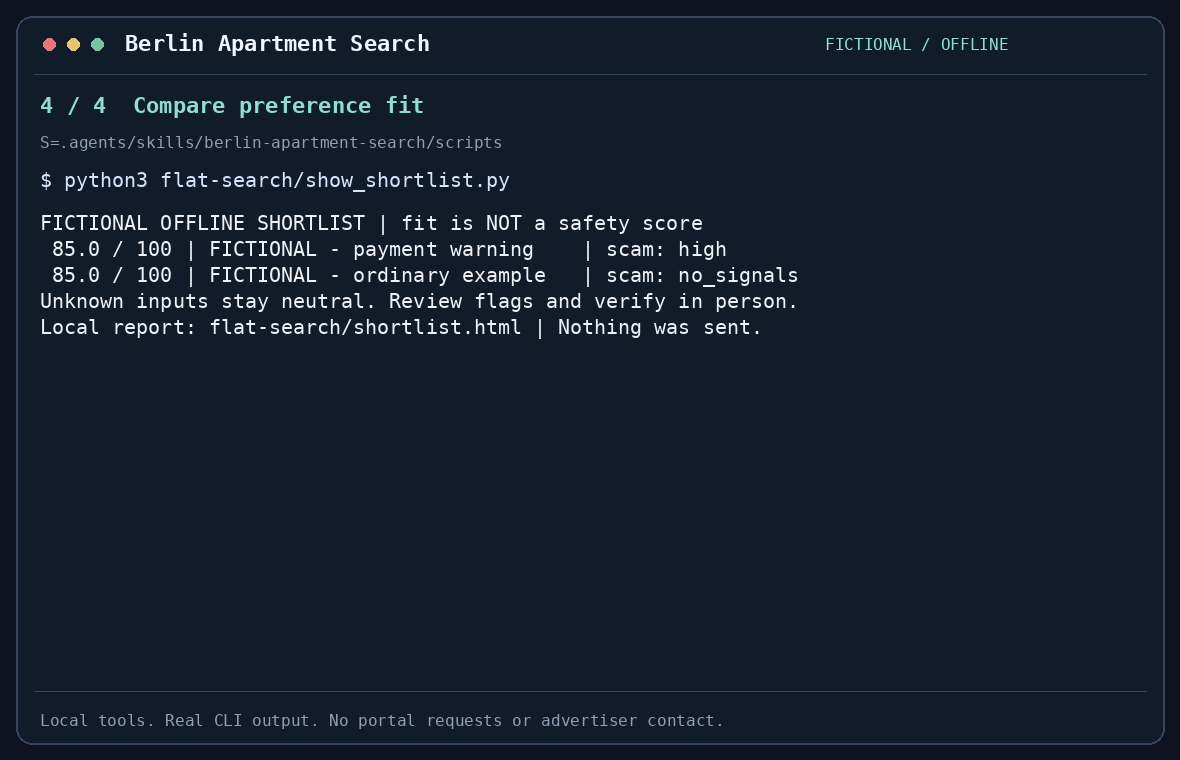
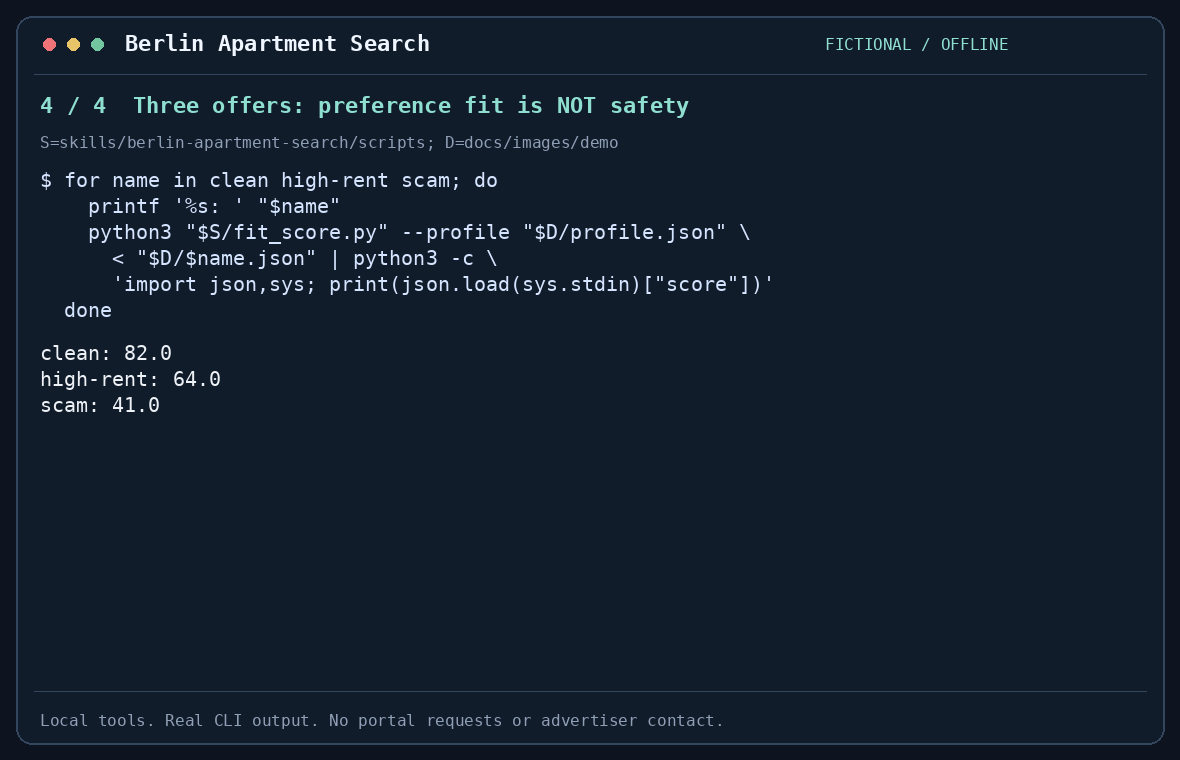
Use reproducible skill commands and distinct fictional fits in demo

Changed region(s): [[0.0305, 0.1816, 0.6712, 0.5447], [0.0915, 0.1211, 0.5797, 0.1513]]

diff --git a/docs/images/README.md b/docs/images/README.md
@@ -1,30 +1,56 @@
 # Launch demo assets
 
 `demo.gif` is a 22-second terminal-style animation generated with Python/Pillow
-from captured command output, not a recording of an AI conversation. It uses
-fictional offline data only. `hero.png` is the final shortlist frame.
-Pillow is only an asset-generation tool, not a dependency of the skill.
+from actual skill-command output, not a recording of an AI conversation.
+`hero.png` is the final fit-score frame. Pillow is only an asset-generation
+tool, not a dependency of the skill.
 
-The commands ran against a copy installed by `npx skills add` from a local
-checkout into a clean temporary workspace. Offline Python processes had socket
-connections disabled. No real listing, personal profile or live search result
-appears in either asset.
+All three listings and the profile are fictional. The inputs live in [demo/](demo/).
+Commands ran from a repository checkout with Python socket connections disabled.
+No real listing, personal profile or live search result appears in either asset.
+
+## Replay the commands
+
+From the repository root, using Python 3.9+ and a POSIX shell:
+
+```bash
+S=skills/berlin-apartment-search/scripts
+D=docs/images/demo
+
+# Scene 1: advance payment, posted keys, owner abroad, irreversible payment.
+python3 "$S/scam_check.py" < "$D/scam.txt"
+
+# Scene 2: expensive rent against a FICTIONAL dated comparison.
+python3 "$S/rent_check.py" < "$D/rent-high.json"
+
+# Scene 3: the ordinary example triggers none of these checks.
+python3 "$S/scam_check.py" < "$D/clean.json"
+python3 "$S/rent_check.py" < "$D/rent-clean.json"
+
+# Scene 4: three actual CLI scores; the inline stdlib formatter prints score only.
+for name in clean high-rent scam; do
+  printf '%s: ' "$name"
+  python3 "$S/fit_score.py" --profile "$D/profile.json" \
+    < "$D/$name.json" | python3 -c \
+    'import json,sys; print(json.load(sys.stdin)["score"])'
+done
+```
 
 ## What the demo shows
 
-1. A fictional Mitte apartment: 50 m², two rooms, €900 cold rent, €1,000 warm
-   rent and €4,000 deposit. The text demands advance payment by Western Union
-   and promises posted keys from an owner abroad.
-2. The actual `scam_check.py` JSON output: score 15, four signals, high review.
-3. The actual `rent_check.py` JSON output: €18/m² cold rent, deposit above three
-   cold rents, and an **unknown** rent-cap comparison without dated comparison
-   data. This is orientation, not a legal conclusion.
-4. A shortlist created by `search.py` with a mocked source returning two
-   fictional listings, then passed to `report.py`. A small display helper reads
-   `groups[].members[]` from `flat-search/results.json` and prints the existing
-   `fit.score` and `scam.review` values without recalculating them. Both examples
-   fit the profile equally, but their scam signals differ. **Fit is not safety.**
+| Fictional listing | Computed fit | Separate checks |
+|---|---:|---|
+| `clean` | 82.0 | No scam signals; below the synthetic rent comparison; no deposit/cost warning |
+| `high-rent` | 64.0 | €23.40/m² cold rent, above the synthetic €16.50/m² limit (reference plus 10%) |
+| `scam` | 41.0 | Scam score 15, high review: advance payment, posted keys, owner abroad and Western Union |
 
-The terminal variable `S` points to the installed skill's scripts directory.
-Command output is line-wrapped to fit the image; values are not edited.
-The runtime scripts remain standard-library-only and Python 3.9+ compatible.
+The €15/m² reference and its date are **made up for teaching**, not real Berlin
+Mietspiegel data or a legal finding. The tool compares against 110% of that
+reference (€16.50/m²); real use requires an applicable, dated comparison and
+checks for exceptions. The profile's separate €10/m² value preference is not
+a legal benchmark. Unknown freshness and commute inputs remain neutral.
+
+Each scene runs real skill commands. There is no custom shortlist helper.
+Only the final loop's inline standard-library JSON formatter reduces output to
+the returned score; it does not calculate or change it. Output is line-wrapped
+for the images. **Fit is not safety; no warnings does not establish safety.**

diff --git a/README.de.md b/README.de.md
@@ -131,7 +131,7 @@ Wohnungsunternehmen, Bezirke, Betrugsrisiken, Unterlagen, Ankunft und Einzug.
 Sie bieten **Orientierung, keine Rechtsberatung**. Die kanonischen Referenzen
 und CLI-Ausgaben sind auf Englisch; deutsche Fachbegriffe werden erklärt.
 
-![Fiktive lokale Auswahlliste: Eignungsbewertung getrennt von Betrugswarnungen](docs/images/hero.png)
+![Drei fiktive Angebote mit berechneten Eignungswerten von 82, 64 und 41; Risiken werden separat geprüft](docs/images/hero.png)
 
 ## Sicherheitsmodell
 

diff --git a/README.md b/README.md
@@ -125,7 +125,7 @@ Berlin references cover rental law, the Mietspiegel, WBS eligibility, municipal
 housing, districts, scams, application documents, newcomers and moving in.
 They are dated and sourced: **orientation, not legal advice**.
 
-![Fictional local shortlist: preference fit shown separately from scam warnings](docs/images/hero.png)
+![Three fictional offers with computed fit scores of 82, 64 and 41; safety is assessed separately](docs/images/hero.png)
 
 ## Safety model
 
